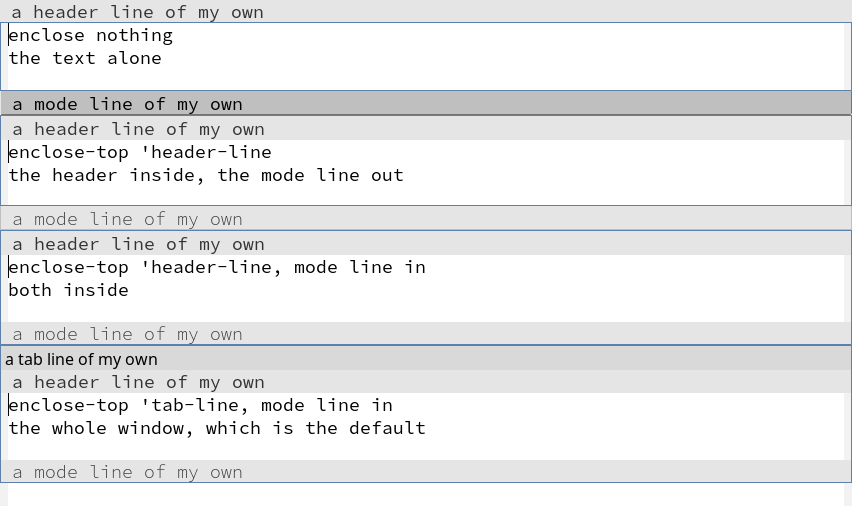
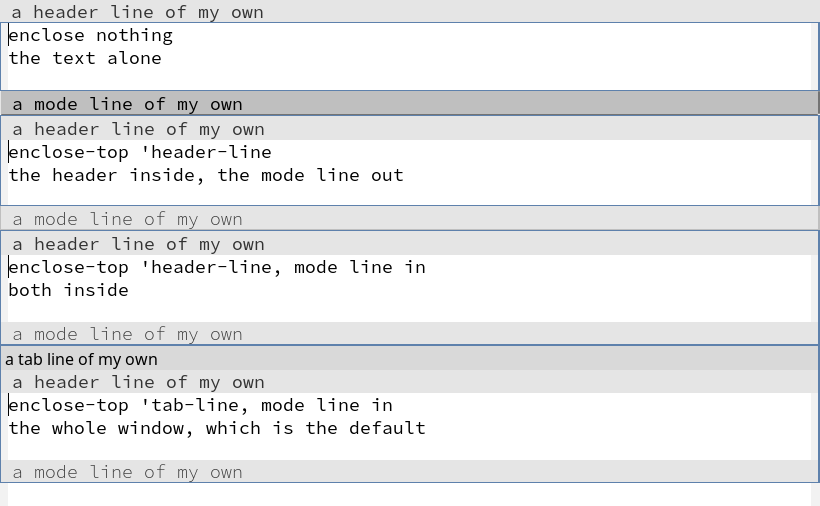
docs: every picture is 820 pixels wide
The pictures of these packages were three widths: 820 for the
animations of the other repositories, 830 for two screenshots, 852
here.  820 is the one they all share now.

The frames are asked for in columns, because a frame is whole columns
wide, and the few pixels that are missing are padded with the frame's
own edge.  The animation is recorded at that width rather than scaled
to it: this package's own measurement says a resize makes two grey
lines out of the box's single pixel.

Same 8 frames and 18.9 seconds as the animation it replaces.

diff --git a/demo/shots.py b/demo/shots.py
@@ -18,7 +18,7 @@ import time
 import pyte
 from PIL import Image, ImageDraw, ImageFont
 
-WIDTH, ROWS = 852, 26
+WIDTH, ROWS = 820, 26
 # In order of preference, among the fonts that have the box drawing
 # characters — a font without them draws the box as nothing at all.
 FONTS = ["Source Code Pro", "DejaVu Sans Mono", "Liberation Mono"]
